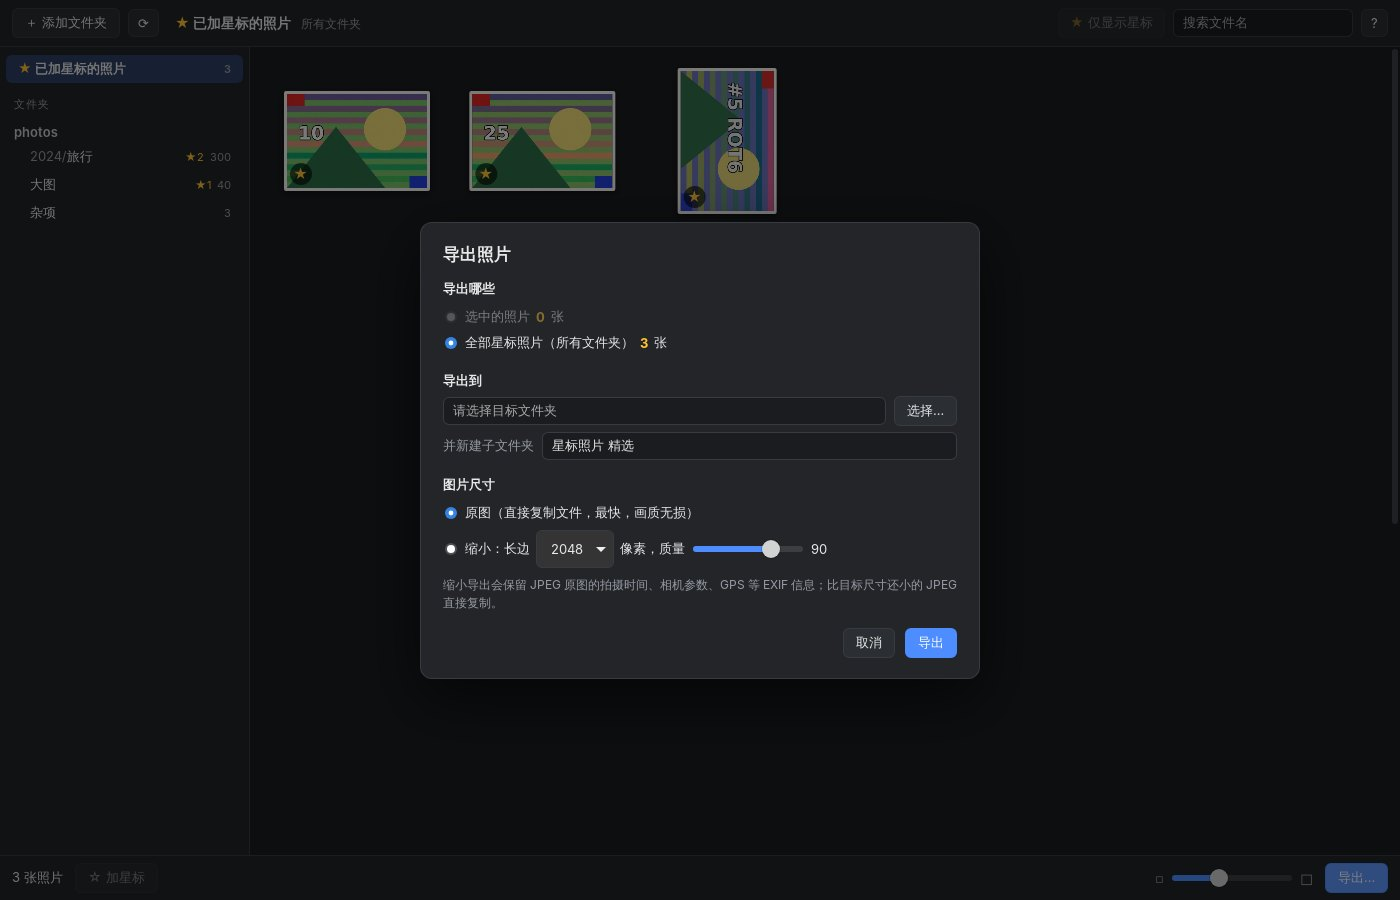
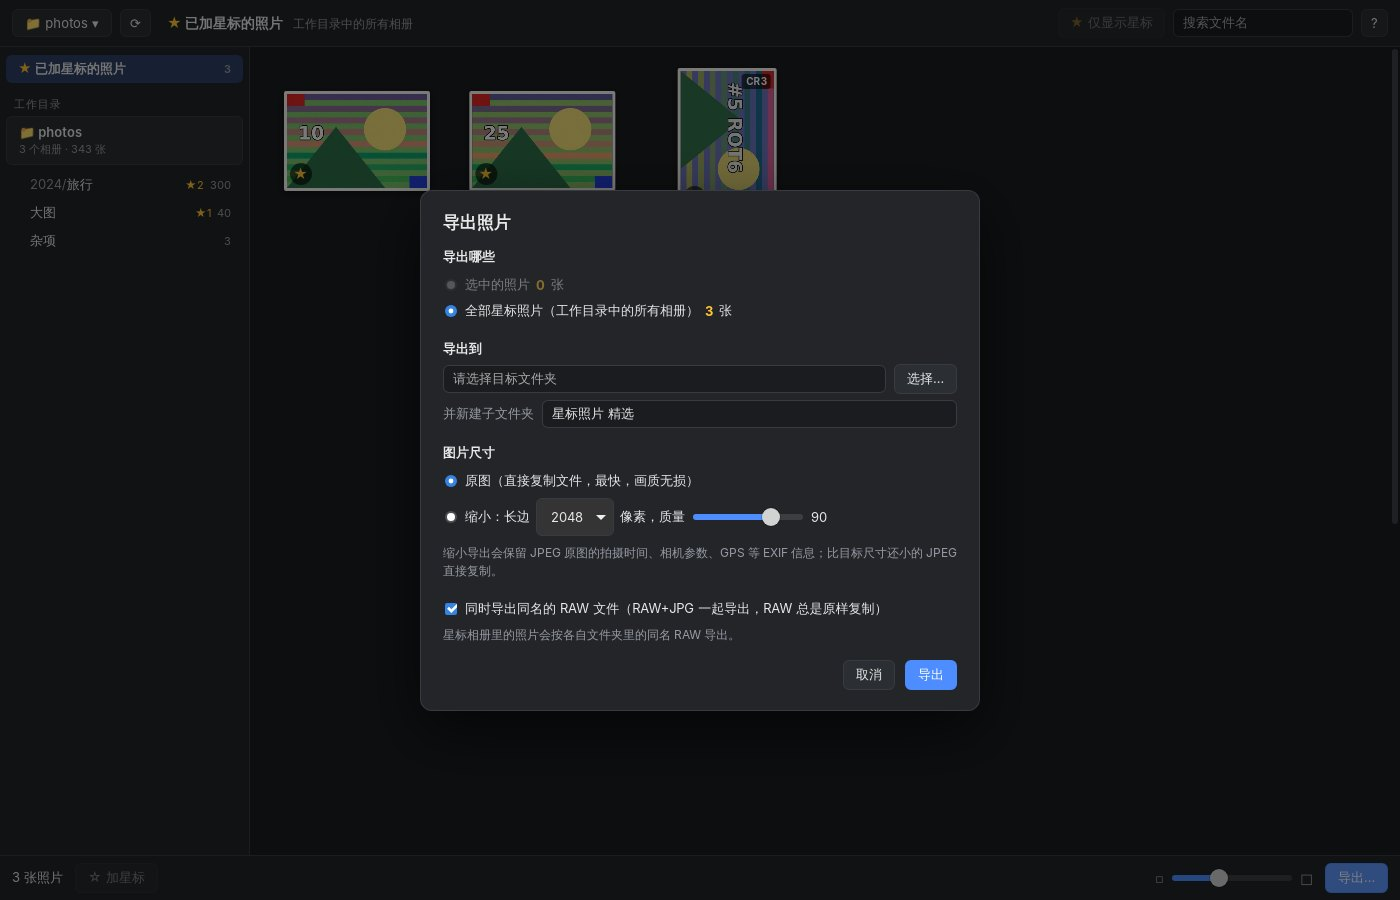
第三轮审查修复 + README 截图更新
- 切换工作目录：票号按请求到达顺序领取，但只有通过校验的切换才推高代数——
  无效切换（拖入整个磁盘、目录不存在）不会作废正在进行的扫描或更早的有效切换
- forget_workdir 与提交切换都在 settings 锁内基于当前设置读-改-写，互不覆盖
- library() 在同一把锁里取工作目录与相册列表（原子快照），stat 在锁外
- 前端：只有最新一次切换才与后台对齐，等待期间界面被更新过就放弃；
  更新的切换都失败时采用更早那次成功的结果
- 导出：连点“导出”不再发出两次；等待期间对话框被关或工作目录变了则作废
- 截图换成工作目录侧栏、RAW 角标、导出 RAW 选项

测试：Rust 58 个，端到端 47 项。

Claude-Session: https://claude.ai/code/session_014zbzUTkwrXNDxxgiyuaWUG

diff --git a/src/main.ts b/src/main.ts
@@ -236,6 +236,10 @@ async function chooseWorkdir(): Promise<void> {
 }
 
 let switchSeq = 0;
+/** 最新一次切换（switchSeq）已经以失败告终时等于它：这时更早发出、后来才成功的切换就是后台的最终状态，应当采用 */
+let failedSeq = 0;
+/** 每次界面切到某个工作目录 +1，用来识别“等待期间界面已被别的结果改过” */
+let applyEpoch = 0;
 
 /** 切换工作目录：扫描它下面所有含照片的子文件夹（相册），打开上次看的或第一个相册。
  *  扫描期间旧目录照常可用（后端扫完才切换）；期间又选了别的目录，以最后一次为准。 */
@@ -256,21 +260,18 @@ async function switchWorkdir(path: string): Promise<void> {
   try {
     lib = await api.setWorkdir(path);
   } catch (e) {
-    if (String(e).includes('superseded')) return; // 被后来的切换取代了
-    if (seq === switchSeq) {
-      thumbsEl.textContent = '';
-      const missing = String(e).includes('不存在');
-      toast(missing ? `找不到 ${path}（移动硬盘没连接？）。可在工作目录菜单里把它从“最近”中移除。` : `无法打开：${e}`, 'error', 5000);
-    }
-    // 这次失败了，但更早发出的一次切换可能已经在后台生效：以后台为准对齐界面
-    await syncWithBackend();
+    if (String(e).includes('superseded')) return; // 被后来的有效切换取代了，由它收尾
+    if (seq !== switchSeq) return; // 有更新的切换在途，由它收尾
+    failedSeq = seq;
+    thumbsEl.textContent = '';
+    const missing = String(e).includes('不存在');
+    toast(missing ? `找不到 ${path}（移动硬盘没连接？）。可在工作目录菜单里把它从“最近”中移除。` : `无法打开：${e}`, 'error', 5000);
+    // 这次失败了，但更早发出的一次有效切换可能已经在后台生效：以后台为准对齐界面
+    await syncWithBackend(seq);
     return;
   }
-  if (seq !== switchSeq) {
-    // 本次结果过时（用户又选了别的）；如果那次后来的切换失败了，后台停在本次的目录上，同样以后台为准
-    await syncWithBackend();
-    return;
-  }
+  // 本次结果过时：更新的切换还在途就交给它；更新的切换都失败了，那后台的最终状态就是本次
+  if (seq !== switchSeq && failedSeq !== switchSeq) return;
   applyWorkdir(lib);
   await openInitialView(lib);
   if (lib.folders.length) {
@@ -279,10 +280,13 @@ async function switchWorkdir(path: string): Promise<void> {
   }
 }
 
-/** 后台当前的工作目录和界面显示的不一致时（切换请求交错、失败），把界面对齐到后台 */
-async function syncWithBackend(): Promise<void> {
+/** 后台当前的工作目录和界面显示的不一致时（切换请求交错、失败），把界面对齐到后台。
+ *  只有最新一次切换才对齐，而且等待期间界面若已被别的结果更新过就放弃（那份快照已过时）。 */
+async function syncWithBackend(seq: number): Promise<void> {
+  if (seq !== switchSeq) return;
+  const epoch = applyEpoch;
   const lib = await api.getLibrary().catch(() => null);
-  if (!lib) return;
+  if (!lib || seq !== switchSeq || epoch !== applyEpoch) return;
   if (lib.workdir !== store.library.workdir) {
     applyWorkdir(lib);
     await openInitialView(lib);
@@ -293,6 +297,7 @@ async function syncWithBackend(): Promise<void> {
 
 /** 界面切到一个新的工作目录：关掉还停留在旧目录照片上的看图器和（没在导出的）导出对话框 */
 function applyWorkdir(lib: Library): void {
+  applyEpoch++;
   thumbsEl.textContent = '';
   if (viewer.opened) viewer.close();
   if (isExportOpen()) closeExportDialog(); // 正在导出时它不会关，导出用的是开始时的照片列表，不受影响

diff --git a/src/exportDialog.ts b/src/exportDialog.ts
@@ -116,6 +116,8 @@ export function openExportDialog(): void {
   const fill = $('.fill');
   const ptext = $('.ptext');
   let running = false;
+  /** 已点“导出”、正在准备照片列表（等星标写完、读星标相册）——防止双击发出两次导出 */
+  let starting = false;
   let unlisten: (() => void) | null = null;
 
   const close = () => {
@@ -145,6 +147,7 @@ export function openExportDialog(): void {
 
   go.onclick = async () => {
     if (go.dataset.done) return close();
+    if (running || starting) return;
     if (store.library.workdir !== workdirAtOpen) {
       toast('工作目录已经切换，请重新打开导出对话框', 'warn');
       return close();
@@ -160,8 +163,24 @@ export function openExportDialog(): void {
     if (scopeVal === 'selected') photos = selected;
     else if (scopeVal === 'view-starred') photos = viewStarred;
     else {
-      await store.starsSettled(); // 刚打的星还在排队写盘时先等它写完，否则会漏掉
-      photos = await api.listStarred();
+      starting = true;
+      go.disabled = true;
+      try {
+        await store.starsSettled(); // 刚打的星还在排队写盘时先等它写完，否则会漏掉
+        photos = await api.listStarred();
+      } catch (e) {
+        photos = [];
+        toast(`读取星标照片失败：${e}`, 'error');
+      } finally {
+        starting = false;
+        go.disabled = false;
+      }
+      // 等待期间对话框被关掉/重开，或者工作目录变了：这次点击作废
+      if (closeCurrent !== close) return;
+      if (store.library.workdir !== workdirAtOpen) {
+        toast('工作目录已经切换，请重新打开导出对话框', 'warn');
+        return close();
+      }
     }
     if (!photos.length) return toast('没有可导出的照片', 'warn');
 

diff --git a/src-tauri/src/lib.rs b/src-tauri/src/lib.rs
@@ -82,7 +82,7 @@ impl Settings {
     }
 }
 
-#[derive(Debug, Clone, Serialize)]
+#[derive(Debug, Clone, PartialEq, Serialize)]
 pub struct Library {
     workdir: Option<String>,
     recent: Vec<String>,
@@ -96,8 +96,11 @@ pub struct AppState {
     /// 上次扫描结果。启动时先用它秒开侧栏，再在后台重新扫描（大图库扫一遍可能要好几秒）
     library_cache_path: PathBuf,
     scanning: AtomicBool,
-    /// 工作目录“代数”：每次切换 +1。扫描开始时记下，结束时代数变了就说明用户已经换了目录，结果作废
+    /// 工作目录“代数”：每次**有效的**切换都会把它推高。扫描开始时记下，结束时代数变了就说明用户已经换了目录，结果作废
     workdir_gen: AtomicU64,
+    /// 切换请求的票号：请求一到达就领（在任何磁盘操作之前），保证“最后一次选择生效”；
+    /// 但只有通过校验后才用它推高代数——无效的切换（拖进整个磁盘、目录不存在）不会作废任何人
+    switch_ticket: AtomicU64,
     /// 星标写入的流水号，以及每个文件夹最后一次写星标时的流水号。扫描开始时记下当前流水号，
     /// 写回结果时，凡是流水号比它新的文件夹都重算星标数——几次扫描同时进行也不会互相把新星标数盖掉
     star_seq: AtomicU64,
@@ -130,6 +133,7 @@ impl AppState {
             library_cache_path,
             scanning: AtomicBool::new(false),
             workdir_gen: AtomicU64::new(0),
+            switch_ticket: AtomicU64::new(0),
             star_seq: AtomicU64::new(0),
             star_stamp: Mutex::new(HashMap::new()),
             settings: Mutex::new(settings),
@@ -153,12 +157,13 @@ impl AppState {
     /// 注意：会对“最近”里的每个目录做一次 stat（网络盘断线时可能很慢），只能在后台线程里调用，
     /// 而且 stat 时不持有任何锁。
     fn library(&self) -> Library {
-        let (workdir, recent) = {
+        // 工作目录和相册列表在同一把锁里一起取，保证是同一时刻的快照（锁顺序与 commit_scan 一致：settings → folders）
+        let (workdir, recent, folders) = {
             let s = self.settings.lock();
-            (s.workdir.clone(), s.recent.clone())
+            (s.workdir.clone(), s.recent.clone(), self.folders.read().clone())
         };
         let missing = recent.iter().filter(|r| Some(*r) != workdir.as_ref() && !Path::new(r).is_dir()).cloned().collect();
-        Library { workdir, recent, missing, folders: self.folders.read().clone() }
+        Library { workdir, recent, missing, folders }
     }
 
     /// 扫描结束时把结果写回：只有在扫描期间工作目录没被切换过才写（在设置锁里判断并写入，原子完成）。
@@ -168,15 +173,19 @@ impl AppState {
         gen: u64,
         workdir: Option<String>,
         mut folders: Vec<Folder>,
-        settings: Option<Settings>,
+        switch_to: bool,
         star_start: u64,
     ) -> Option<Library> {
         let mut s = self.settings.lock();
         if self.workdir_gen.load(Ordering::SeqCst) != gen {
             return None;
         }
-        if let Some(new) = settings {
-            // 设置也在这里（判断过没被抢先之后）才落盘，免得一个作废的切换把旧目录写进设置文件
+        if switch_to {
+            // 在锁里基于“当前”设置修改并落盘（判断过没被抢先之后），不会吞掉期间别的修改（如移除最近目录）
+            let mut new = s.clone();
+            if let Some(w) = &workdir {
+                new.use_workdir(w.clone());
+            }
             if let Err(e) = self.save_settings(&new) {
                 eprintln!("[settings] 保存失败：{e}");
             }
@@ -207,7 +216,7 @@ impl AppState {
         let workdir = self.settings.lock().workdir.clone();
         let star_start = self.star_seq.load(Ordering::SeqCst);
         let folders = workdir.as_deref().map(|w| scan::scan_root(Path::new(w), &self.stars)).unwrap_or_default();
-        self.commit_scan(gen, workdir, folders, None, star_start)
+        self.commit_scan(gen, workdir, folders, false, star_start)
     }
 
     fn persist_folders(&self) {
@@ -266,11 +275,15 @@ async fn rescan(state: AppStateRef<'_>) -> Result<Library, String> {
 #[tauri::command]
 async fn set_workdir(path: String, state: AppStateRef<'_>) -> Result<Library, String> {
     let st = state.inner().clone();
-    // 代数号必须按“请求到达的顺序”领，而且在任何磁盘操作之前：检查一个正在唤醒的移动硬盘可能卡好几秒，
+    // 票号必须按“请求到达的顺序”领，而且在任何磁盘操作之前：检查一个正在唤醒的移动硬盘可能卡好几秒，
     // 若之后才领号，较早的请求反而会拿到更大的号、最后生效。
-    let gen = st.workdir_gen.fetch_add(1, Ordering::SeqCst) + 1;
-    blocking(move || {
-        let mut p = PathBuf::from(&path);
+    let ticket = st.switch_ticket.fetch_add(1, Ordering::SeqCst) + 1;
+    blocking(move || st.switch_workdir(&path, ticket)).await
+}
+
+impl AppState {
+    fn switch_workdir(&self, path: &str, ticket: u64) -> Result<Library, String> {
+        let mut p = PathBuf::from(path);
         // 拖进来的是照片文件：用它所在的文件夹
         if p.is_file() {
             p = p.parent().map(Path::to_path_buf).ok_or("无效路径")?;
@@ -282,13 +295,12 @@ async fn set_workdir(path: String, state: AppStateRef<'_>) -> Result<Library, St
         if dir.is_empty() {
             return Err("请选择具体的照片文件夹，而不是整个磁盘".into());
         }
-        let star_start = st.star_seq.load(Ordering::SeqCst);
-        let folders = scan::scan_root(Path::new(&dir), &st.stars);
-        let mut s = st.settings.lock().clone();
-        s.use_workdir(dir.clone());
-        st.commit_scan(gen, Some(dir), folders, Some(s), star_start).ok_or_else(|| SUPERSEDED.to_string())
-    })
-    .await
+        // 通过校验了：用票号推高代数，作废更早的切换和正在进行的重扫（fetch_max：比我晚到的有效请求已推得更高时，我自己作废）
+        self.workdir_gen.fetch_max(ticket, Ordering::SeqCst);
+        let star_start = self.star_seq.load(Ordering::SeqCst);
+        let folders = scan::scan_root(Path::new(&dir), &self.stars);
+        self.commit_scan(ticket, Some(dir), folders, true, star_start).ok_or_else(|| SUPERSEDED.to_string())
+    }
 }
 
 /// 扫描期间用户又切换了工作目录：这次结果作废。前端认得这个字符串，静默忽略。
@@ -299,13 +311,16 @@ const SUPERSEDED: &str = "superseded";
 async fn forget_workdir(path: String, state: AppStateRef<'_>) -> Result<Library, String> {
     let st = state.inner().clone();
     blocking(move || {
-        let mut s = st.settings.lock().clone();
+        // 读-改-写全在一把锁里：不会和同时提交的工作目录切换互相覆盖
+        let mut s = st.settings.lock();
         if s.workdir.as_deref() == Some(path.as_str()) {
             return Err("不能移除当前的工作目录".into());
         }
-        s.recent.retain(|r| r != &path);
-        st.save_settings(&s)?;
-        *st.settings.lock() = s;
+        let mut next = s.clone();
+        next.recent.retain(|r| r != &path);
+        st.save_settings(&next)?;
+        *s = next;
+        drop(s); // library() 还要拿这把锁（不可重入）
         Ok(st.library())
     })
     .await
@@ -653,17 +668,17 @@ mod tests {
         photo_dir(&a, "x", &["1.jpg"]);
         photo_dir(&b, "y", &["2.jpg"]);
         // 模拟：切到 A 的扫描还没结束，用户又切到了 B（代数 +1）
-        let gen_a = st.workdir_gen.fetch_add(1, Ordering::SeqCst) + 1;
+        let gen_a = 1;
+        st.workdir_gen.fetch_max(gen_a, Ordering::SeqCst);
         let folders_a = scan::scan_root(&a, &st.stars);
-        let gen_b = st.workdir_gen.fetch_add(1, Ordering::SeqCst) + 1;
-        let mut sb = Settings::default();
-        sb.use_workdir(b.to_string_lossy().into_owned());
-        let lib = st.commit_scan(gen_b, sb.workdir.clone(), scan::scan_root(&b, &st.stars), Some(sb), 0).unwrap();
+        let gen_b = 2;
+        st.workdir_gen.fetch_max(gen_b, Ordering::SeqCst);
+        let b_dir = Some(b.to_string_lossy().into_owned());
+        let lib = st.commit_scan(gen_b, b_dir, scan::scan_root(&b, &st.stars), true, 0).unwrap();
         assert_eq!(lib.folders[0].name, "y");
         // A 的结果后到：作废，不覆盖 B，也不写进设置文件
-        let mut sa = Settings::default();
-        sa.use_workdir(a.to_string_lossy().into_owned());
-        assert!(st.commit_scan(gen_a, sa.workdir.clone(), folders_a, Some(sa), 0).is_none());
+        let a_dir = Some(a.to_string_lossy().into_owned());
+        assert!(st.commit_scan(gen_a, a_dir, folders_a, true, 0).is_none());
         assert_eq!(st.library().workdir.as_deref(), Some(b.to_string_lossy().as_ref()));
         let saved = Settings::parse(fs::read(&st.settings_path).ok().as_deref());
         assert_eq!(saved.workdir.as_deref(), Some(b.to_string_lossy().as_ref()));
@@ -672,14 +687,37 @@ mod tests {
     }
 
     #[test]
+    fn invalid_switch_supersedes_nobody_and_last_valid_choice_wins() {
+        let (t, st) = state();
+        let w = t.path().join("W");
+        let x = t.path().join("X");
+        let y = t.path().join("Y");
+        photo_dir(&w, "w1", &["1.jpg"]);
+        photo_dir(&x, "x1", &["1.jpg"]);
+        photo_dir(&y, "y1", &["1.jpg"]);
+        st.switch_workdir(&w.to_string_lossy(), 1).unwrap();
+
+        // 后台重扫开始……期间用户拖进来一个无效路径：重扫结果不能被作废
+        let gen = st.workdir_gen.load(Ordering::SeqCst);
+        let folders = scan::scan_root(&w, &st.stars);
+        assert!(st.switch_workdir("/", 2).is_err());
+        assert!(st.switch_workdir(&t.path().join("nope").to_string_lossy(), 3).is_err());
+        assert!(st.commit_scan(gen, Some(w.to_string_lossy().into_owned()), folders, false, 0).is_some());
+
+        // 票号 4 的 X、票号 5 的 Y 都有效：不管谁先校验完，最后都是 Y（后到的那次）
+        assert_eq!(st.switch_workdir(&y.to_string_lossy(), 5).unwrap().folders[0].name, "y1");
+        assert_eq!(st.switch_workdir(&x.to_string_lossy(), 4), Err(SUPERSEDED.to_string()));
+        assert_eq!(st.library().workdir.as_deref(), Some(y.to_string_lossy().as_ref()));
+    }
+
+    #[test]
     fn star_counts_changed_during_scan_survive_the_commit() {
         let (t, st) = state();
         let w = t.path().join("W");
         photo_dir(&w, "album", &["1.jpg", "2.jpg"]);
-        let mut s = Settings::default();
-        s.use_workdir(w.to_string_lossy().into_owned());
+        let wd = Some(w.to_string_lossy().into_owned());
         let gen = st.workdir_gen.load(Ordering::SeqCst);
-        st.commit_scan(gen, s.workdir.clone(), scan::scan_root(&w, &st.stars), Some(s.clone()), 0).unwrap();
+        st.commit_scan(gen, wd.clone(), scan::scan_root(&w, &st.stars), true, 0).unwrap();
         // 两次重扫同时开始（都读到 0 星）……
         let start1 = st.star_seq.load(Ordering::SeqCst);
         let stale1 = scan::scan_root(&w, &st.stars);
@@ -691,8 +729,8 @@ mod tests {
         let stamp = st.star_seq.fetch_add(1, Ordering::SeqCst) + 1;
         st.star_stamp.lock().insert(album.to_string_lossy().into_owned(), stamp);
         // 两次扫描先后写回：第二次也不能用旧的 0 星把新星标数盖掉
-        assert_eq!(st.commit_scan(gen, s.workdir.clone(), stale1, None, start1).unwrap().folders[0].starred, 1);
-        assert_eq!(st.commit_scan(gen, s.workdir.clone(), stale2, None, start2).unwrap().folders[0].starred, 1);
+        assert_eq!(st.commit_scan(gen, wd.clone(), stale1, false, start1).unwrap().folders[0].starred, 1);
+        assert_eq!(st.commit_scan(gen, wd.clone(), stale2, false, start2).unwrap().folders[0].starred, 1);
     }
 
     #[test]

diff --git a/tests/e2e/run_e2e.py b/tests/e2e/run_e2e.py
@@ -285,8 +285,11 @@ def run(d, env, export_dir):
     js(d, "document.querySelector('#export-dialog .sub').value = '精选'")
     js(d, "document.querySelector('#export-dialog input[name=mode][value=resize]').checked = true")
     js(d, "const s = document.querySelector('#export-dialog .maxpx'); s.value = '2048'")
-    d.find_element(By.CSS_SELECTOR, "#export-dialog .go").click()
+    # 连点两下“导出”：只能导出一次，不能出现“导出失败”
+    js(d, "const g = document.querySelector('#export-dialog .go'); g.click(); g.click();")
     ok = wait(lambda: "完成" in d.find_element(By.CSS_SELECTOR, "#export-dialog .ptext").text, timeout=60)
+    check("连点两下导出只导出一次", ok and "失败" not in d.find_element(By.CSS_SELECTOR, "#export-dialog .ptext").text,
+          d.find_element(By.CSS_SELECTOR, "#export-dialog .ptext").text)
     out = sorted(p.name for p in (export_dir / "精选").glob("*")) if (export_dir / "精选").exists() else []
     check("导出全部星标照片（缩小到 2048），同名 CR3 一起导出", out == ["DSC_10.jpg", "DSC_25.jpg", "IMG_0005.CR3", "IMG_0005.jpg"], str(out))
     if "IMG_0005.CR3" in out:

diff --git a/src-tauri/src/scan.rs b/src-tauri/src/scan.rs
@@ -153,7 +153,7 @@ pub fn folder_counts(dir: &Path, stars: &StarStore) -> (usize, usize) {
     (groups.len(), starred)
 }
 
-#[derive(Debug, Clone, Serialize, Deserialize)]
+#[derive(Debug, Clone, PartialEq, Serialize, Deserialize)]
 pub struct Folder {
     pub path: String,
     /// 文件夹名

diff --git a/README.md b/README.md
@@ -3,11 +3,11 @@
 仿 **Picasa 3** 的 macOS 选片工具。Picasa 停更多年、Mac 上早已装不了，这里把它最好用的那一套
 “看图 → 打星 → 筛出星标 → 导出”重新做了一遍，并且把**滚轮翻图不卡**当成第一目标。
 
-| 图库网格 | 看大图（滚轮翻页 + 底部胶片条） |
+| 相册网格（RAW+JPG 显示 CR3 角标） | 看大图（滚轮翻页 + 底部胶片条） |
 |---|---|
 | ![网格](docs/screenshots/grid.jpg) | ![看大图](docs/screenshots/viewer.jpg) |
-| **已加星标的照片**（汇总所有文件夹） | **导出**（原图 / 缩小，保留 EXIF） |
-| ![星标相册](docs/screenshots/starred.jpg) | ![导出](docs/screenshots/export.jpg) |
+| **导出**（原图 / 缩小，RAW 一起导出） | **工作目录**（最近用过的一键切换） |
+| ![导出](docs/screenshots/export.jpg) | ![工作目录](docs/screenshots/workdir.jpg) |
 
 （截图里是自动生成的测试图片）
 
@@ -209,9 +209,10 @@ python3 tests/e2e/run_e2e.py /tmp/pp-e2e
 cd src-tauri && PP_BENCH_FILE=/path/to/big.jpg cargo test --release bench_render -- --ignored --nocapture
 ```
 
-端到端测试（42 项）覆盖：工作目录（切换、重启后记住、最近列表）、读取已有 Picasa 星标、虚拟化网格、仅显示星标、
+端到端测试（47 项）覆盖：工作目录（切换、重启后记住、最近列表）、读取已有 Picasa 星标、虚拟化网格、仅显示星标、
 空格 / 多选打星并写回 `.picasa.ini`、RAW+JPG 合并显示与成对打星 / 导出、滚轮一格一张、预加载命中率、EXIF 竖拍转正、
-1:1 加载原图、星标相册、缩小导出保留 EXIF、原图导出字节一致、协议拒绝访问工作目录以外的文件。
+1:1 加载原图、星标相册、缩小导出保留 EXIF、原图导出字节一致、连点导出只导出一次、“未连接”目录置灰与清理、
+协议拒绝访问工作目录以外的文件。
 
 ## 已知限制 / 下一步
 
